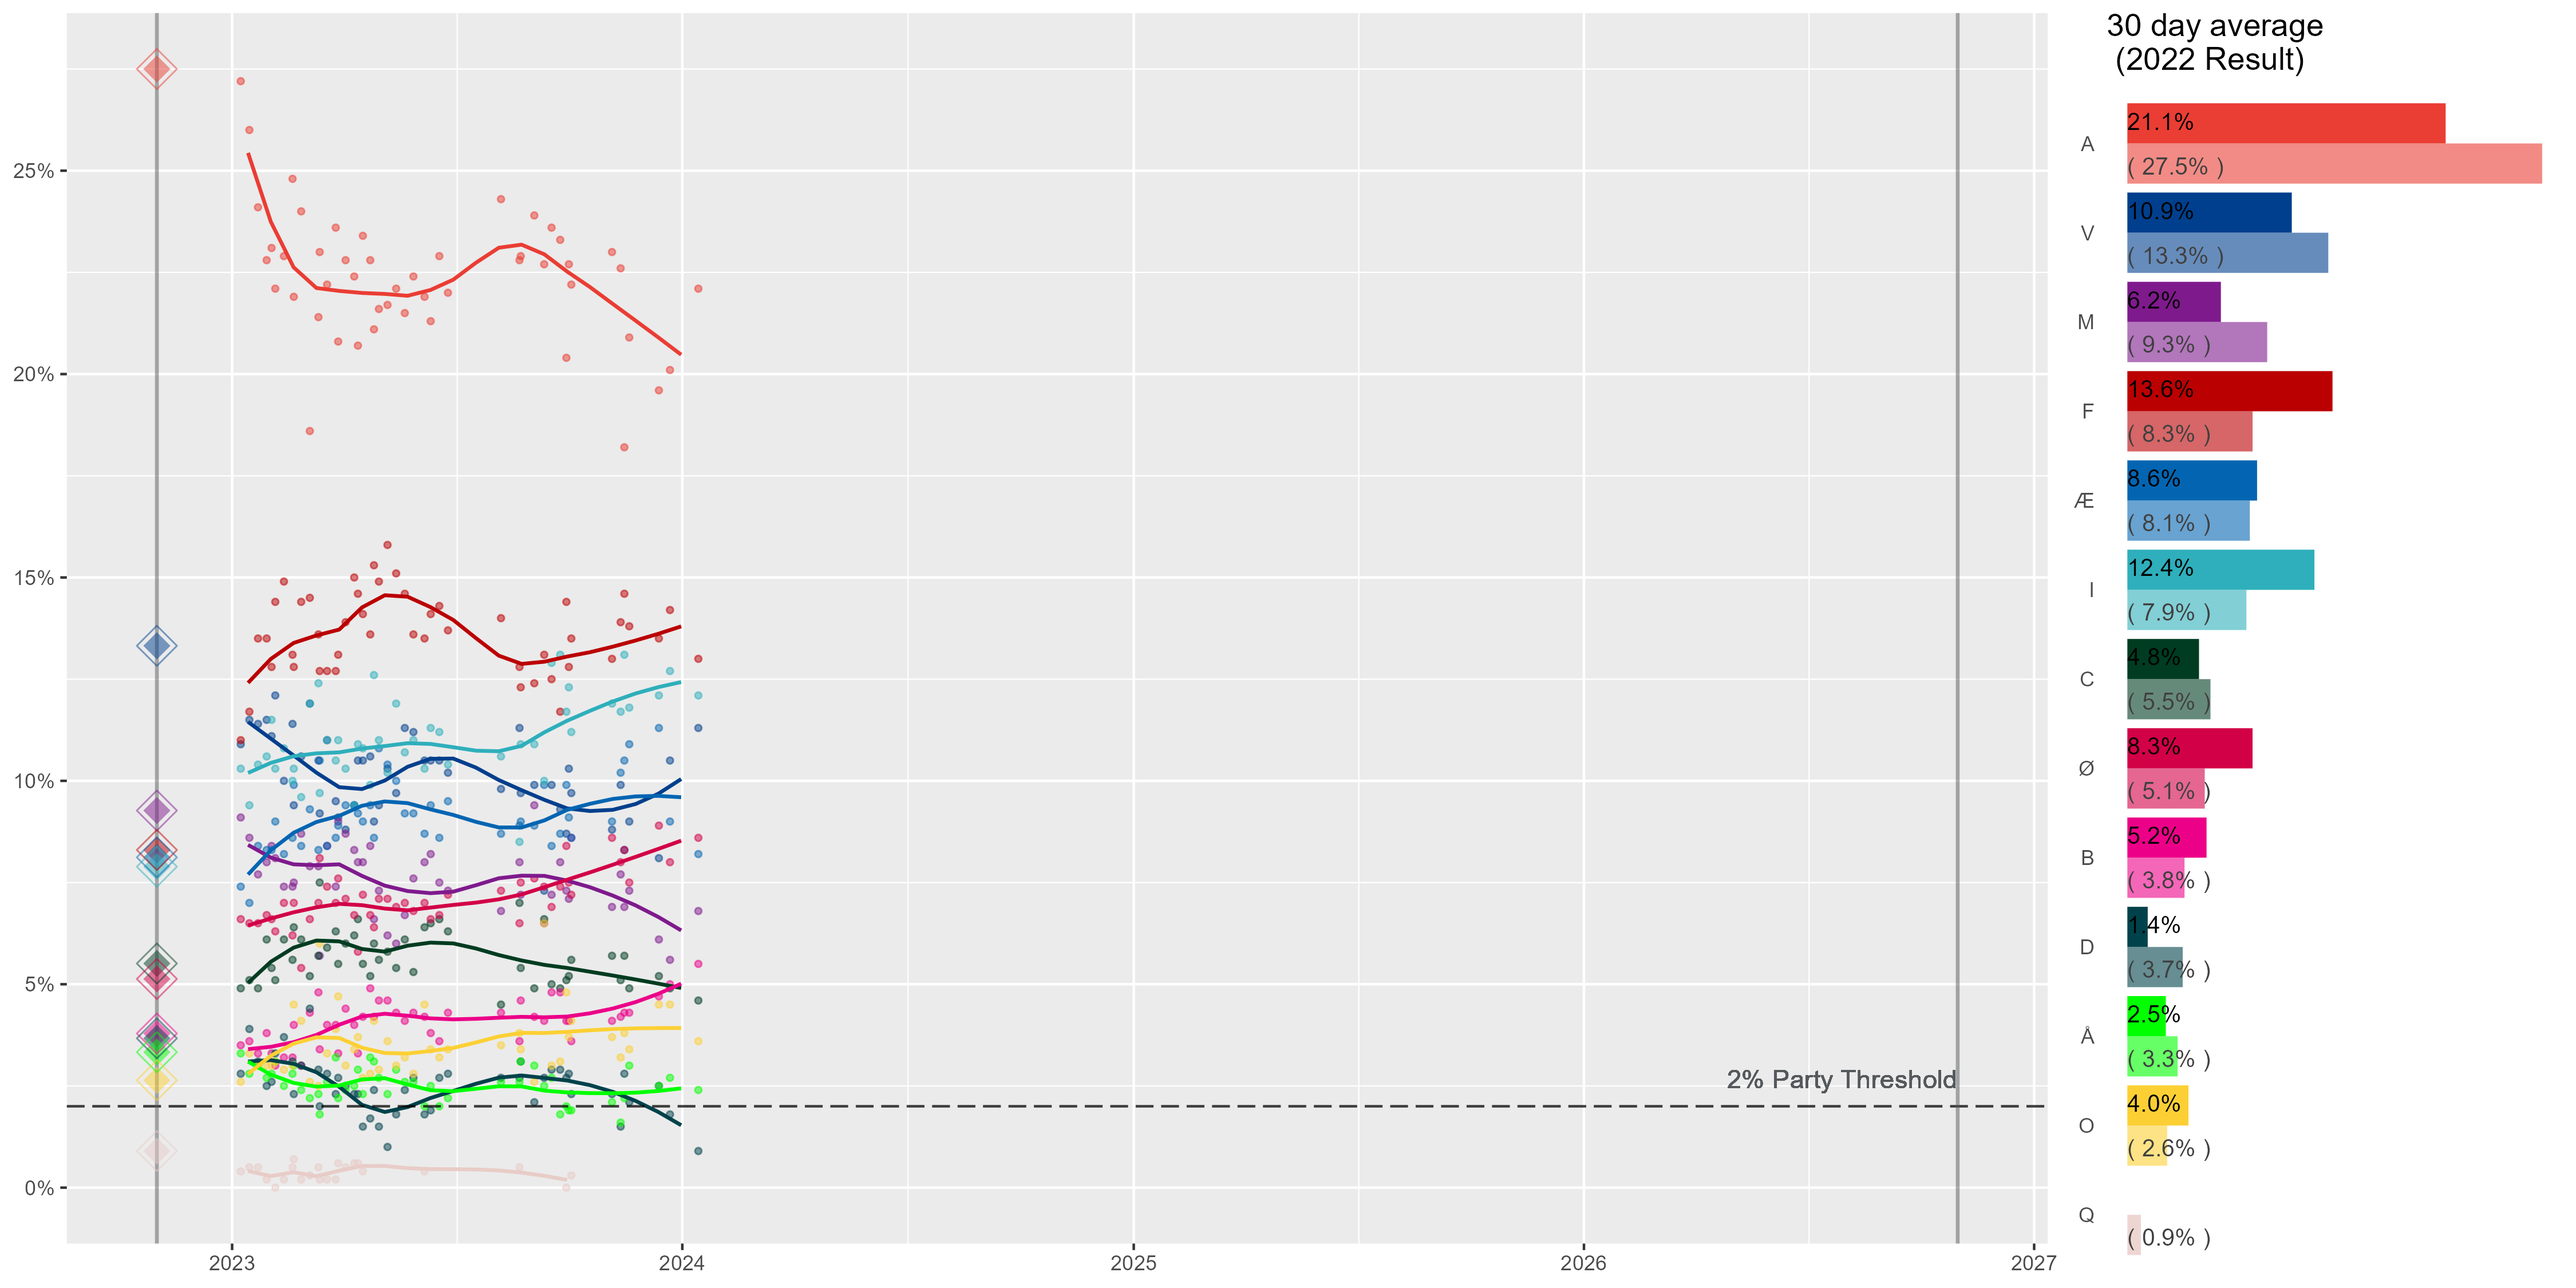
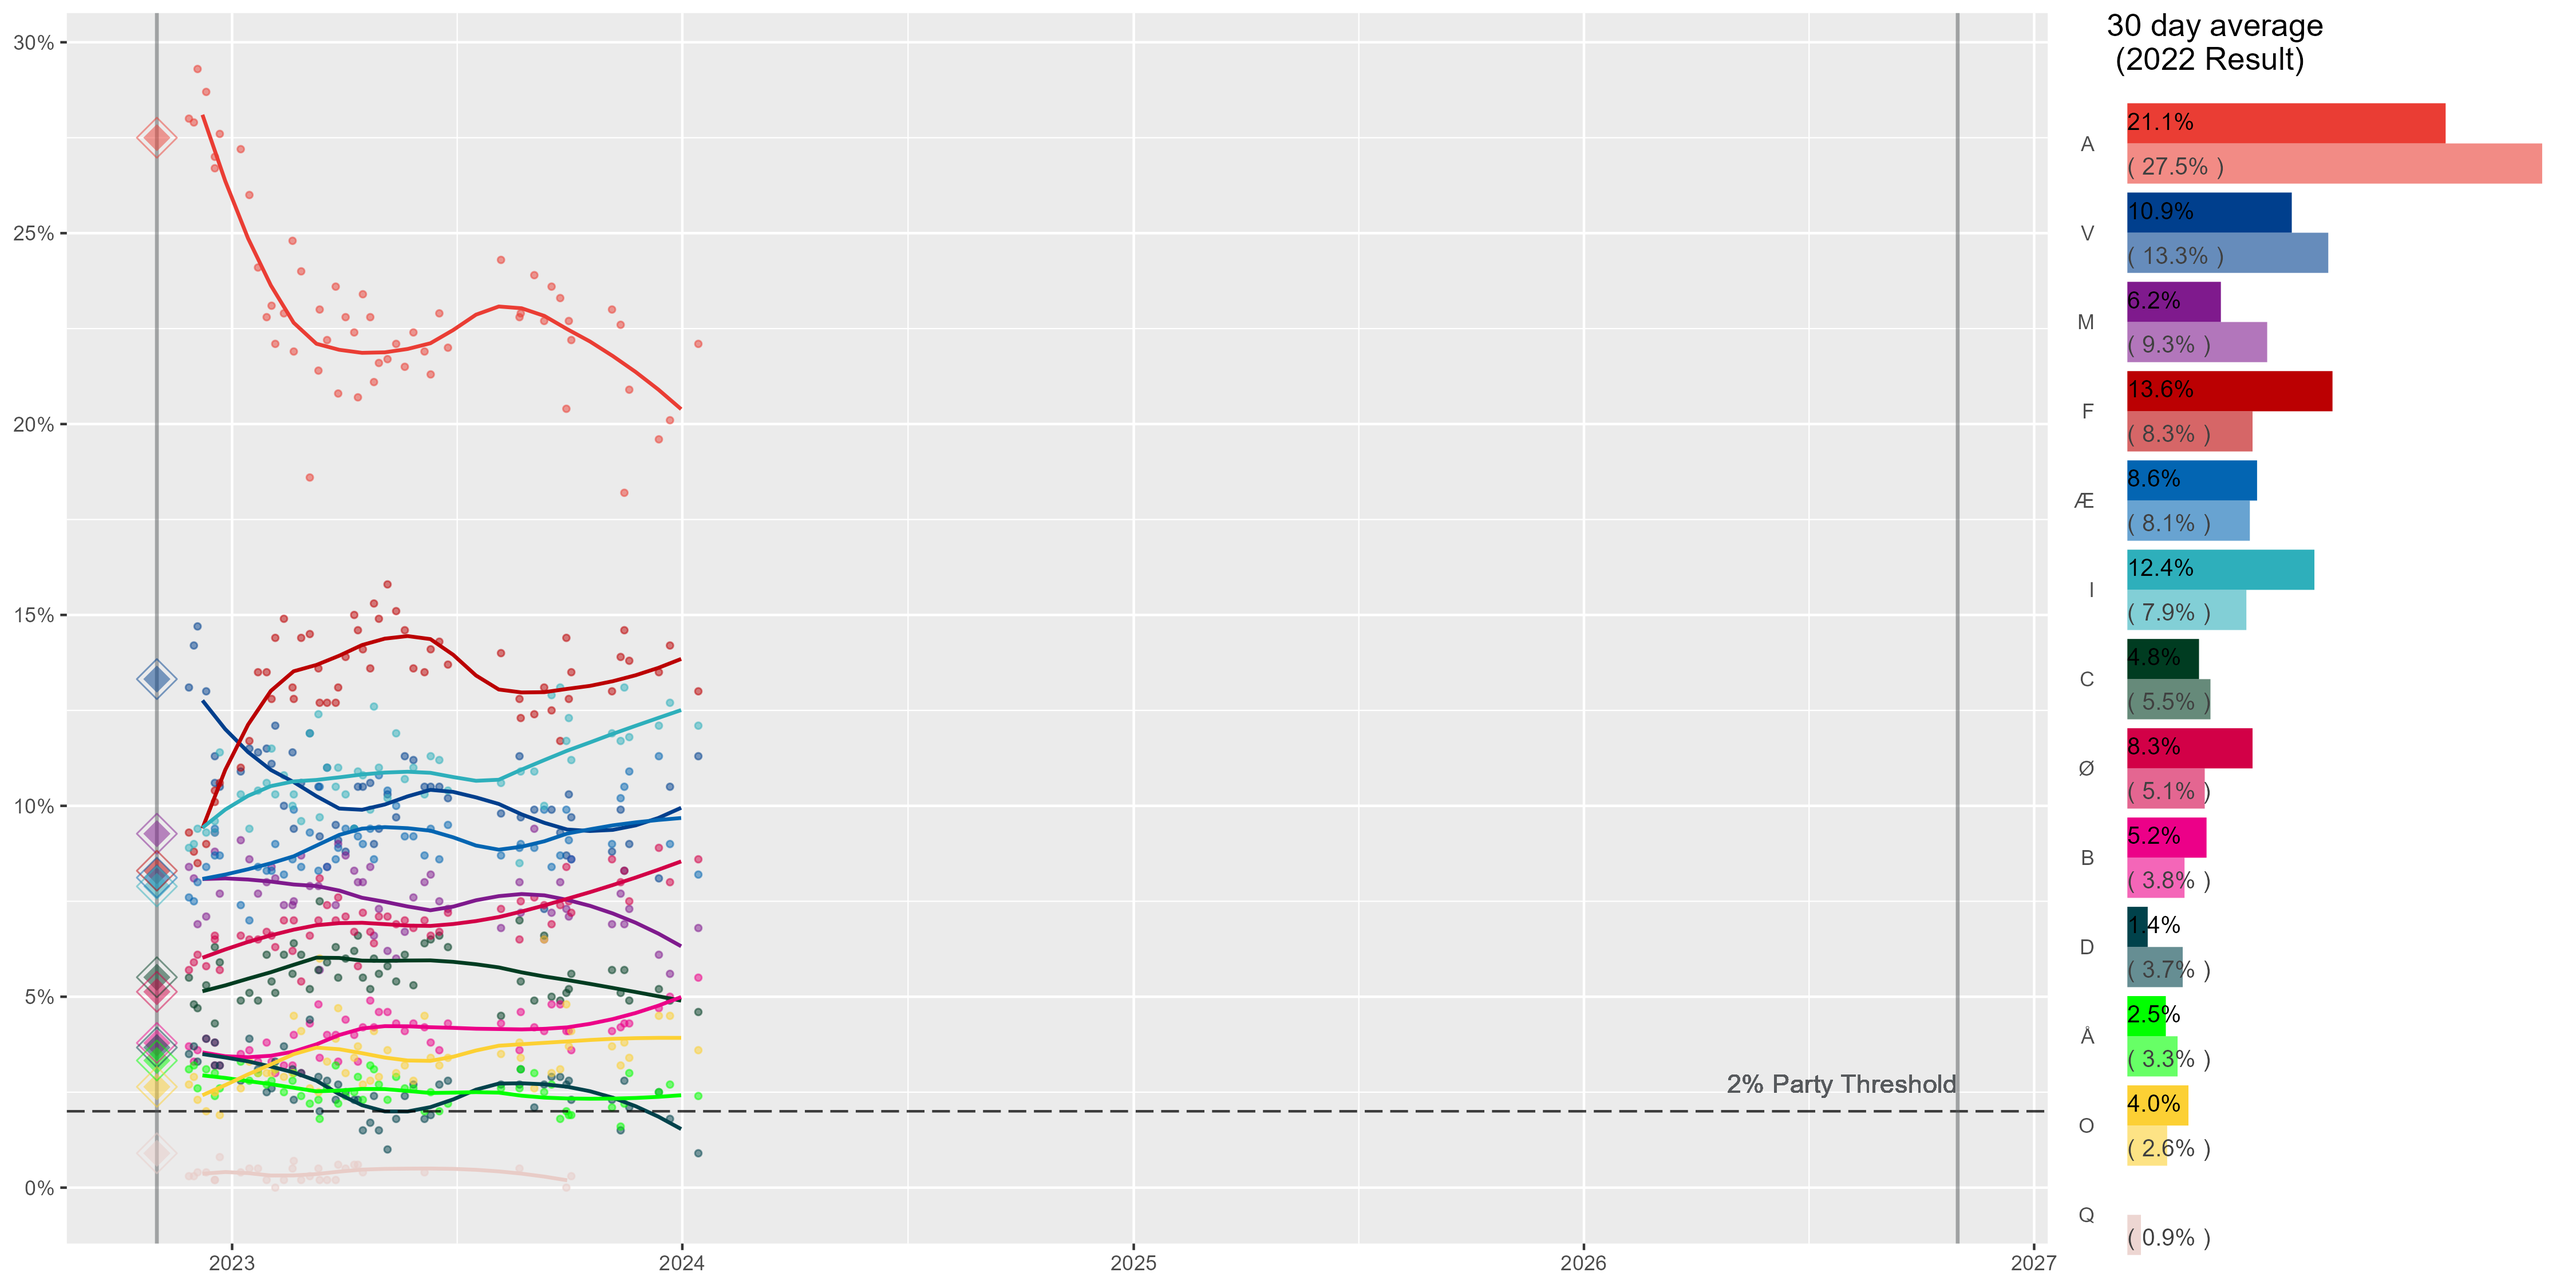
Denmark Fixed

diff --git a/Denmark/data.py b/Denmark/data.py
@@ -19,7 +19,7 @@ data22.columns = headers
 data22 = data22.drop(['1','2','3','4','5','6','7','8','9'], axis=1)
 
 d = {}
-for i in range(2):
+for i in range(3):
   d[i]=pd.DataFrame(df[i])
   d[i].columns = headers
   d[i]=d[i].drop(['1','2','3','4','5','6','7','8','9'], axis=1)
@@ -33,7 +33,8 @@ for i in range(2):
   for z in parties:
     d[i][z] = [x.replace('–',str(np.NaN)) for x in d[i][z].astype(str)]
     d[i][z] = [x.replace('—',str(np.NaN)) for x in d[i][z].astype(str)]
-d[0].drop(d[0].index[[-1]],inplace=True)
+  if i != 2:
+    d[i].drop(d[i].index[[-1]],inplace=True)
 
 D = pd.concat(d.values(), ignore_index=True)
 D.loc[len(D.index)-1,['Date']] = '2022-11-01'
